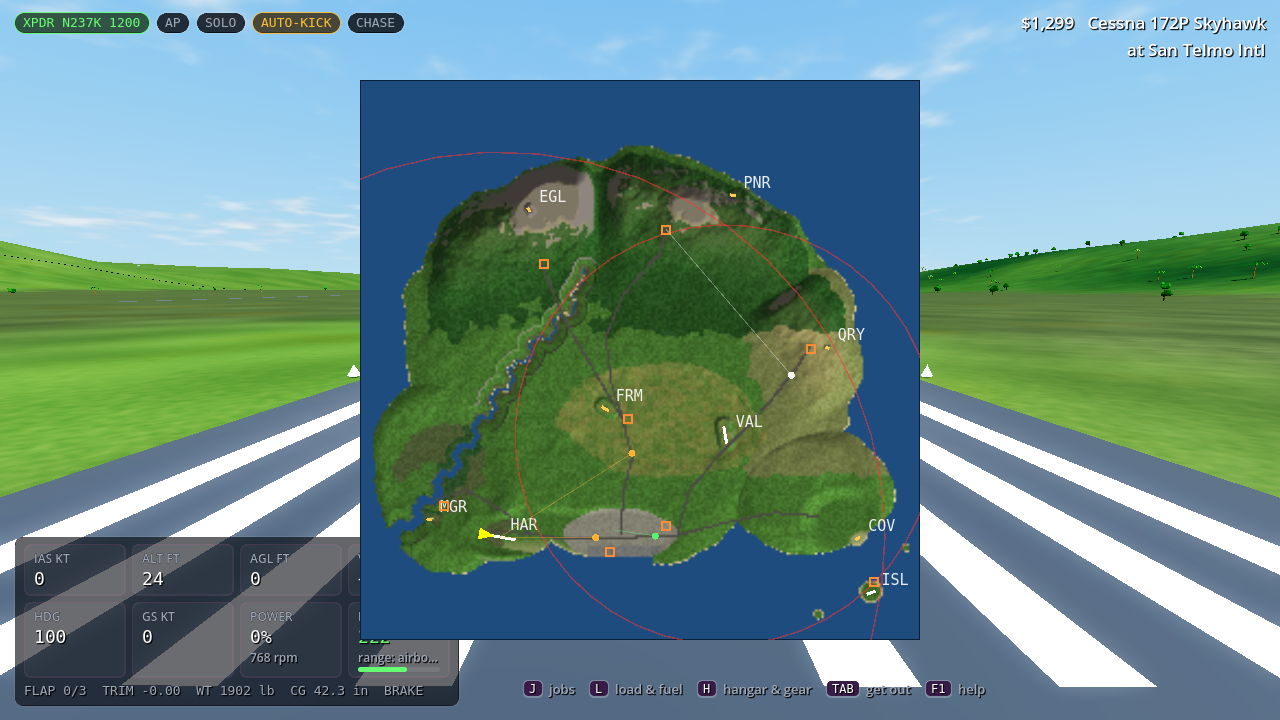
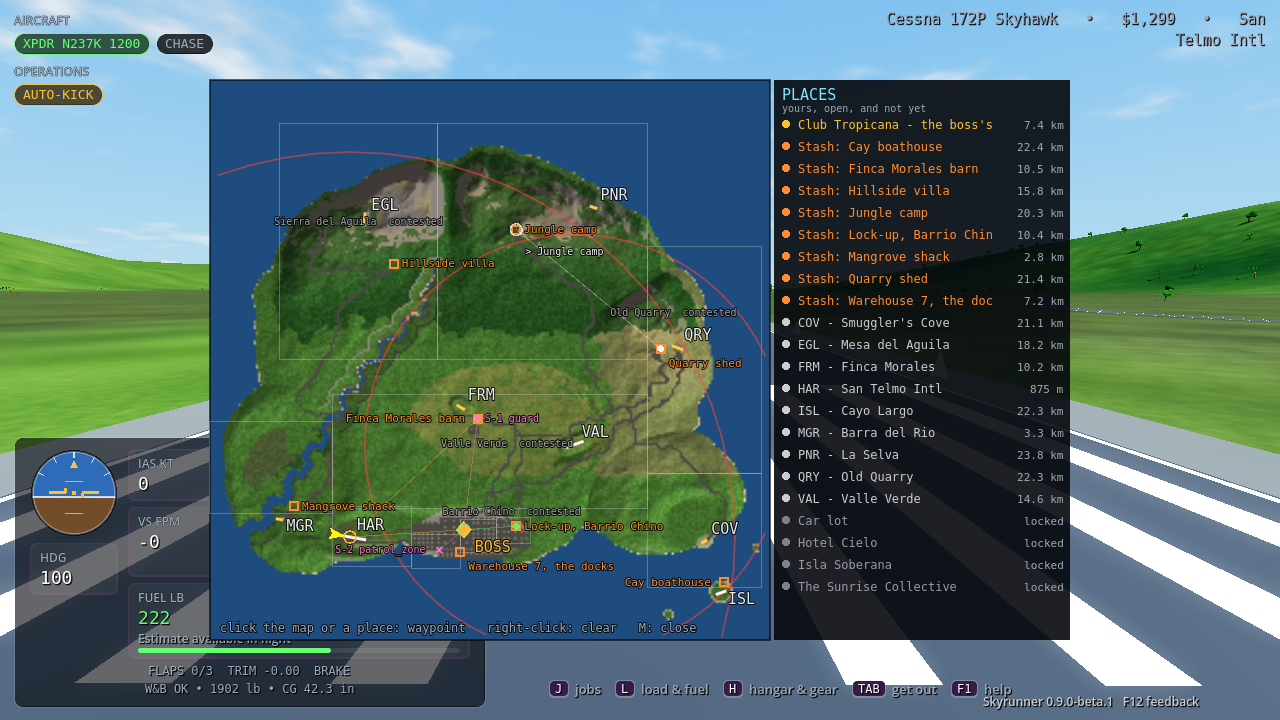
Chart labels: lay them out together by priority, without overlaps (#548)
On the M chart the labels round HAR (the strip, the boss's, the club's
stash, the docks warehouse, a truck's destination) printed over one
another. Chart labels are now queued with a priority and laid out at
the frame's end by Minimap.place_labels: highest first, each trying its
own spot, then a line below or above, then the mark's other side; never
off the chart, over another label or over a stash's square; a label with
no free spot is left off (district names and truck destinations go
first). The radar keeps drawing as before. docs/img/trucks.png refreshed.

Claude-Session: https://claude.ai/code/session_01AjwLGzjJytcouM3PGWaCnS

diff --git a/docs/FEATURES.md b/docs/FEATURES.md
@@ -192,6 +192,7 @@ The README has the short version; [DESIGN.md](DESIGN.md) has how each system wor
 | Look and sound | Kenney/KayKit/Quaternius models, docks and downtown dress | Built |  |  |
 | Look and sound | Period vehicles and Costa Brava frontage | Built | Merged after screenshot review | #373 · #374 |
 | Look and sound | Lane paint and town pavements | Built | The lane lines were never drawn and the pavements rendered dark (fixed 11 Nov: paint in 2 km tiles, strips wound face-up) |  |
+| Look and sound | Chart labels laid out without overlaps | Built | The M chart lays its labels out together by priority (waypoint, goals, places, then moving things, stashes, trucks, districts): each moves below, above or to the other side of its mark when crowded, or is left off; round HAR five names printed over one another until 12 Nov |  |
 | Look and sound | Synth sound; one radio for cockpit and car | Built | Radio redistribution rights unresolved | #175 |
 | Look and sound | Shift from low-poly towards a PS2-era look | Planned | Polygon/texture budgets need an owner call | #380 |
 | Presentation layers | Territory radio and era music | Paused |  | D-23 · D-75 |

diff --git a/HANDOFF.md b/HANDOFF.md
@@ -175,6 +175,10 @@ TTS follow-up (14 Oct): after the owner reported that the game was still invisib
 
 ## Log
 
+- **2026-11-12 - Claude, chart labels:** the M chart's labels round HAR (the strip, the boss's, the club's stash, the docks, a
+  truck's destination) printed over one another; they are now laid out together by priority (`Minimap.place_labels`), moving
+  aside or dropping the least important. docs/img/trucks.png refreshed. A hangar-roof winding suspicion was checked and dropped:
+  its winding and normals are both inward, so Godot's double flip already lit it right.
 - **2026-11-12 - Claude, Codex removed (D-98):** the owner removed Codex from the process; Claude is the only agent and merges
   its own PRs on green CI at the exact head. AGENTS.md, ROADMAP "Working structure" and DECISIONS updated.
 - **2026-11-11 - Claude, the road paint and the pavements:** the lane lines were never drawn (one island-wide paint mesh with a

diff --git a/docs/PROJECT_STATUS.md b/docs/PROJECT_STATUS.md
@@ -15,7 +15,7 @@ This section describes **this checkout**. Run `godot --headless --script res://t
 | Field | Source value | Meaning / source |
 |---|---|---|
 | Version | 0.9.0-beta.1 | project.godot |
-| Declared automated tests | 1681 methods in 208 test files | Compiled source inventory; this is not a test result |
+| Declared automated tests | 1688 methods in 209 test files | Compiled source inventory; this is not a test result |
 | Flying tutorial | 4 Costa Brava chapters | Campaign.CHAPTERS |
 | Main story | 12 chapters | Story.CHAPTERS; distinct from the tutorial |
 | Configured exports | Linux, Windows, macOS | Export presets; build/manual acceptance is recorded below |
